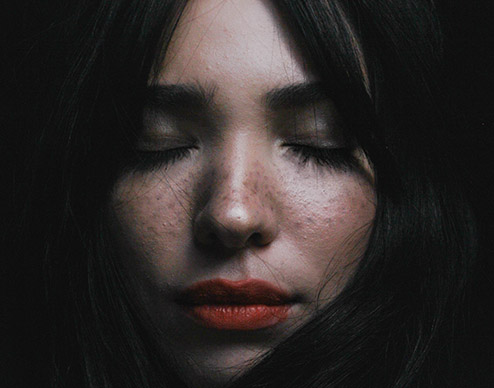
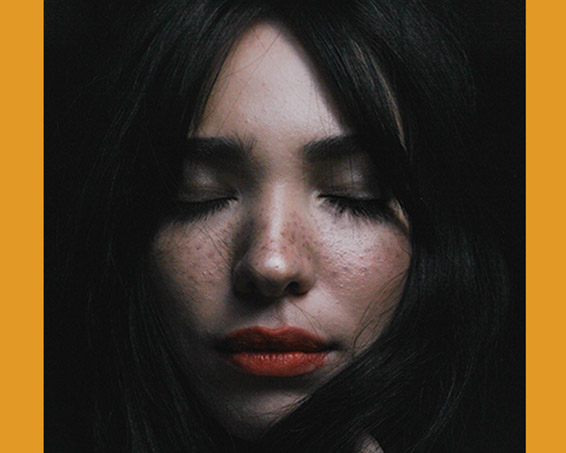
added brand-promo page

diff --git a/css/style.css b/css/style.css
@@ -337,13 +337,13 @@ input#mce-MESSAGE.form-input.form-input-distribution {
 
 .submit-button-distribution {
   float: right;
-  height: 30px;
   color: white;
   border: none;
   background-color: #2b2a29;
   cursor: pointer;
   font-family: 'avenir-roman', 'sans-serif';
   text-transform: uppercase;
+  height: 30px;
   font-size: 0.8em;
   padding-right: 15px;
   padding-left: 15px;
@@ -375,17 +375,35 @@ input .input-data-error {
   color: red;
 }
 
+/* BRAND PROMO PAGE */
+.brand-promo h1 {
+  text-align: left;
+  margin-bottom: 16px;
+}
+
+.distribution h1, .brand-promo h1 {
+  margin-top: 14px;
+  margin-bottom: 16px;
+}
+.distribution p, .brand-promo p {
+  margin-bottom: 18px;
+}
+
 /* ~~~~~~~~~~Responsive Media Queries~~~~~~~~~~ */
 
 /* SMALL DOWNWARDS */
 
 @media (max-width: 575.9px) {
   .index-body {
-    margin-bottom: 1340px;
+    margin-bottom: 1380px;
   }
 
   .about-body {
-    margin-bottom: 1120px;
+    margin-bottom: 1180px;
+  }
+
+  .distribution-brand-promo-body {
+    margin-bottom: 1250px;
   }
 
   .logo.img-responsive {
@@ -550,8 +568,21 @@ input .input-data-error {
     min-height: 100%;
   }
   .distribution-image {
-    background: url(../img/zulmaury-saavedra-cropped2.jpg) no-repeat center;
+    background: url(../img/zulmaury-saavedra-cropped.jpg) no-repeat center;
     min-height: 100%;
+  }
+  .distribution .contact-form-container {
+    padding-left: 23px;
+  }
+  .distribution p {
+    margin-bottom: calc(0.774 * 23px);
+  }
+  .submit-button-distribution {
+    height: 23px;
+    font-size: 0.6em;
+    padding-right: 15px;
+    padding-left: 15px;
+    padding-top: 5px;
   }
   /* .navbar.navbar-expand-sm {
     padding: 0;
@@ -559,11 +590,24 @@ input .input-data-error {
   .collapse.navbar-collapse {
     background: #282828;
   } */
-  .header-title {
+  .brand-promo h1 {
+    margin-bottom: calc(0.774 * 14px);
+  }
+  .brand-promo-image {
+    background: url(../img/christopher-burns-471173-unsplash.jpg) no-repeat center;
+    min-height: 100%;
+  }
+  .brand-promo .contact-form-container {
+    padding-right: 23px;
+  }
+  .brand-promo p {
+    margin-bottom: calc(0.774 * 23px);
+  }
+  /* .brand-promo {
     font-size: calc(0.774 * 0.7em);
     line-height: 0.774;
     margin-bottom: calc(0.774 * (-3px));
-  }
+  } */
 
 
 }
@@ -654,9 +698,31 @@ input .input-data-error {
   .distribution h1 {
     margin-bottom: 14px;
   }
+  .distribution p {
+    margin-bottom: 23px;
+  }
+  .distribution .contact-form-container {
+    padding-left: 35px;
+  }
+  .submit-button-distribution {
+    height: 30px;
+    font-size: 0.8em;
+    padding-right: 15px;
+    padding-left: 15px;
+    padding-top: 2px;
+  }
   .about-image {
     background-image: url(../img/lotte-meijer-lg.jpg);
     min-height: 100%;
+  }
+  .brand-promo h1 {
+    margin-bottom: 14px;
+  }
+  .brand-promo p {
+    margin-bottom: 23px;
+  }
+  .brand-promo .contact-form-container {
+    padding-right: 35px;
   }
   /* SIDEBAR */
   #wrapper {

diff --git a/brand-promo.html b/brand-promo.html
@@ -81,14 +81,10 @@
 
         <!-- content -->
           <div class="about-image-mobile container-fluid d-sm-none">
-            <img class="img-fluid" src="img/zulmaury-saavedra.jpg">
+            <img class="img-fluid" src="img/christopher-burns-471173-unsplash-sm.jpg">
           </div>
-          <div class="distribution container-fluid">
+          <div class="brand-promo container-fluid">
             <div class="row row-eq-height">
-              <div class="col-sm-6 d-none d-sm-block">
-                <div class="container distribution-image">
-                </div>
-              </div>
               <div class="col-sm-6 contact-form-container">
                 <h1>WOULD YOU LIKE TO BECOME A DISTRIBUTOR?</h1>
                 <p>We love to hear from people who are aligned with our philosophy and have an interest in distributing our products around the world.</p>
@@ -137,6 +133,10 @@
                         </div>
                     </div>
                 </form>
+              </div>
+              <div class="col-sm-6 d-none d-sm-block">
+                <div class="container brand-promo-image">
+                </div>
               </div>
             </div>
           </div>

diff --git a/index.html b/index.html
@@ -30,7 +30,7 @@
                         <a href="distribution.html" class="nav-link">Distribution</a>
                     </li>
                     <li class="nav-item">
-                        <a href="#" class="nav-link">Brand Promo</a>
+                        <a href="brand-promo.html" class="nav-link">Brand Promo</a>
                     </li>
                 </ul>
             </div>
@@ -94,7 +94,7 @@
                             <a href="distribution.html" class="nav-link">Distribution</a>
                         </div>
                         <div class="col-sm-3 navcol">
-                            <a href="#" class="nav-link">Brand Promo</a>
+                            <a href="brand-promo.html" class="nav-link">Brand Promo</a>
                         </div>
                 </div>
             </div>
@@ -143,7 +143,7 @@
               </div>
             </div>
           </div>
-          
+
         <!-- ~~~~MOBILE SIZE FOOTER~~~~ -->
             <footer class="footer navbar-fixed-bottom d-block d-sm-none">
               <div id="footerSlideContainer">

diff --git a/about.html b/about.html
@@ -30,7 +30,7 @@
                         <a href="distribution.html" class="nav-link">Distribution</a>
                     </li>
                     <li class="nav-item">
-                        <a href="#" class="nav-link">Brand Promo</a>
+                        <a href="brand-promo.html" class="nav-link">Brand Promo</a>
                     </li>
                 </ul>
             </div>
@@ -72,7 +72,7 @@
                             <a href="distribution.html" class="nav-link">Distribution</a>
                         </div>
                         <div class="col-sm-3 navcol">
-                            <a href="#" class="nav-link">Brand Promo</a>
+                            <a href="brand-promo.html" class="nav-link">Brand Promo</a>
                         </div>
                 </div>
             </div>

diff --git a/js/script.js b/js/script.js
@@ -96,21 +96,21 @@ $(this).css('textTransform', 'none');
 $('#form_email').focus(function(){
 $(this).css('backgroundColor','#2b2a29');
 $(this).css('color', 'white');
-$(this).css('fontSize', '0.7em');
+$(this).css('fontSize', '0.8em');
 $(this).css('textTransform', 'none');
 });
 
 $('#form_phone').focus(function(){
 $(this).css('backgroundColor','#2b2a29');
 $(this).css('color', 'white');
-$(this).css('fontSize', '0.7em');
+$(this).css('fontSize', '0.8em');
 $(this).css('textTransform', 'none');
 });
 
 $('#form_message').focus(function(){
 $(this).css('backgroundColor','#2b2a29');
 $(this).css('color', 'white');
-$(this).css('fontSize', '0.7em');
+$(this).css('fontSize', '0.8em');
 $(this).css('textTransform', 'none');
 });
 
